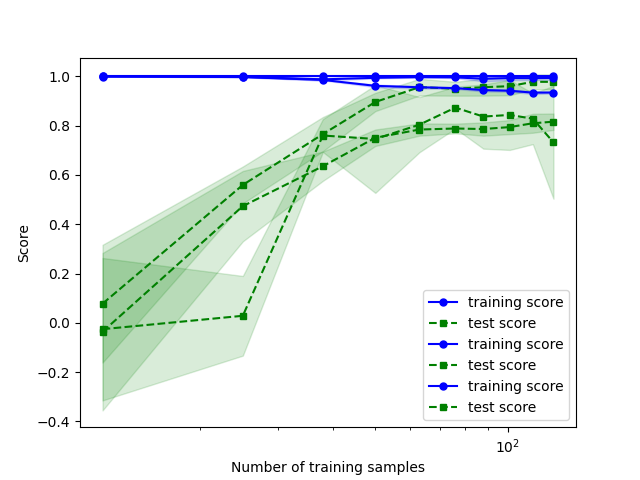
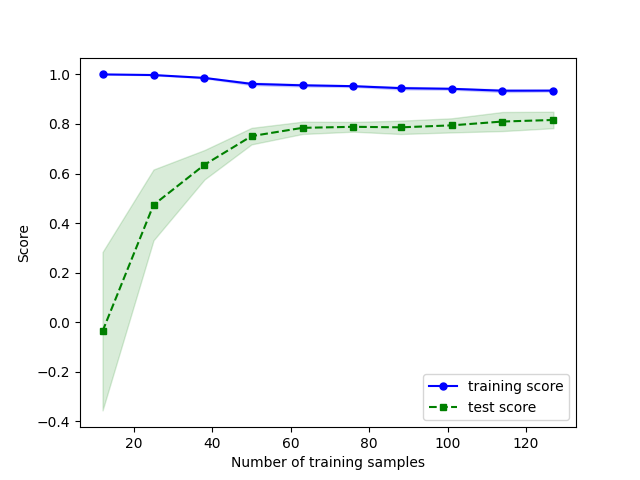
Error with creating graphs

diff --git a/models/ridge.py b/models/ridge.py
@@ -1,8 +1,6 @@
-import pandas as pd
 import numpy as np
-from grade_packages import encoding
 from sklearn.linear_model import Ridge # RidgeCV
-from sklearn.model_selection import train_test_split, KFold, cross_val_score, learning_curve
+from sklearn.model_selection import KFold, cross_val_score, learning_curve
 from sklearn.metrics import  r2_score, mean_squared_error
 import matplotlib.pyplot as plt
 from joblib import dump
@@ -56,6 +54,7 @@ def ridge(X, y, X_train, X_test, y_train, y_test, type_science, encoder, file_na
     plt.ylim([0, 1])
     plt.show()
     plt.savefig("model_graphs/" + file_name + "_ridge.png", )
+    plt.clf()
 
     save = input('should it be saved? ')
     if save[0].strip().lower() == 'y':

diff --git a/run_models.py b/run_models.py
@@ -33,10 +33,14 @@ else:
     file_name = 'triple'
 
 for model in training_models:
+    print(f"Scored for {model}:")
+    print()
     module_name = 'models.' + model
     module = importlib.import_module(module_name)
     function_to_call = getattr(module, model)
     function_to_call(X, y, X_train, X_test, y_train, y_test, type_science, encoder, file_name)
+    print()
+    print()
 
 print('All models complete')
     

diff --git a/models/random_forest.py b/models/random_forest.py
@@ -88,6 +88,7 @@ def random_forest(X, y, X_train, X_test, y_train, y_test, type_science, encoder,
     plt.legend(loc='lower right')
     plt.show()
     plt.savefig("model_graphs/" + file_name + "_random.png", )
+    plt.clf()
 
     # It seems the model is good for making predictions if there are enough data points. I will continue to work on this if there is more data avalible
 

diff --git a/models/linear_regression.py b/models/linear_regression.py
@@ -61,6 +61,7 @@ def linear_regression(X, y, X_train, X_test, y_train, y_test, type_science, enco
     plt.legend(loc='lower right')
     plt.show()
     plt.savefig("model_graphs/" + file_name + "_linear.png", )
+    plt.clf()
 
     # if data is good give option to save and name to save
     save = input('should it be saved? ')

diff --git a/models/descition_tree.py b/models/descition_tree.py
@@ -55,6 +55,7 @@ def descition_tree(X, y, X_train, X_test, y_train, y_test, type_science, encoder
     plt.legend(loc='lower right')
     plt.show()
     plt.savefig("model_graphs/" + file_name + "_descition.png", )
+    plt.clf()
 
     save = input('should it be saved? ')
     if save[0].strip().lower() == 'y':
